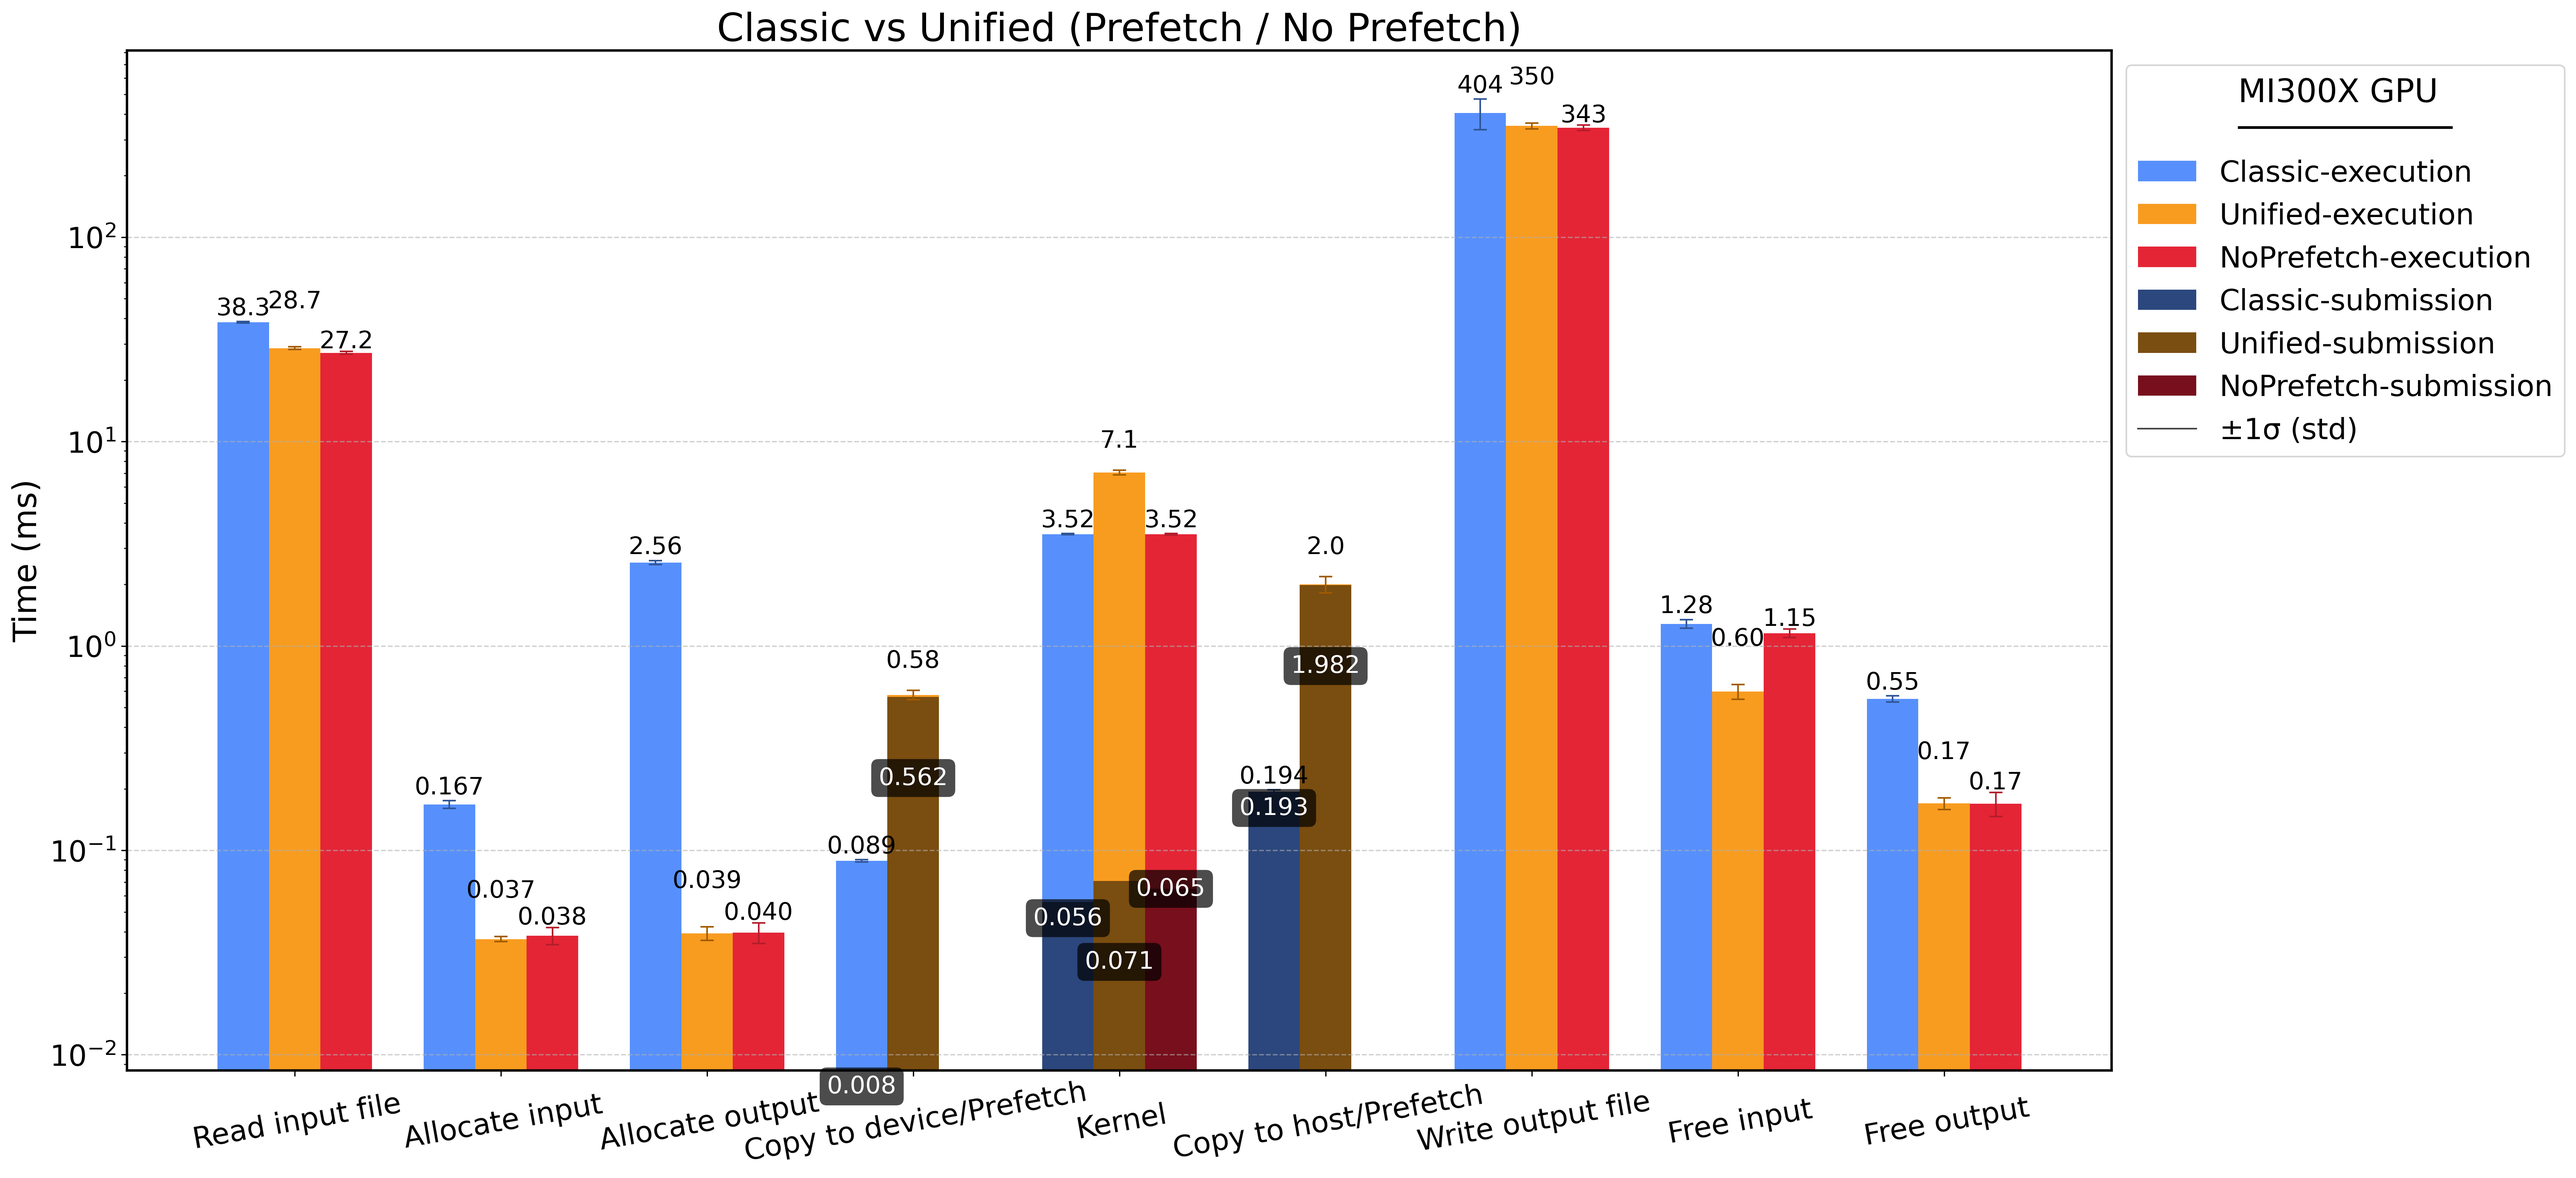
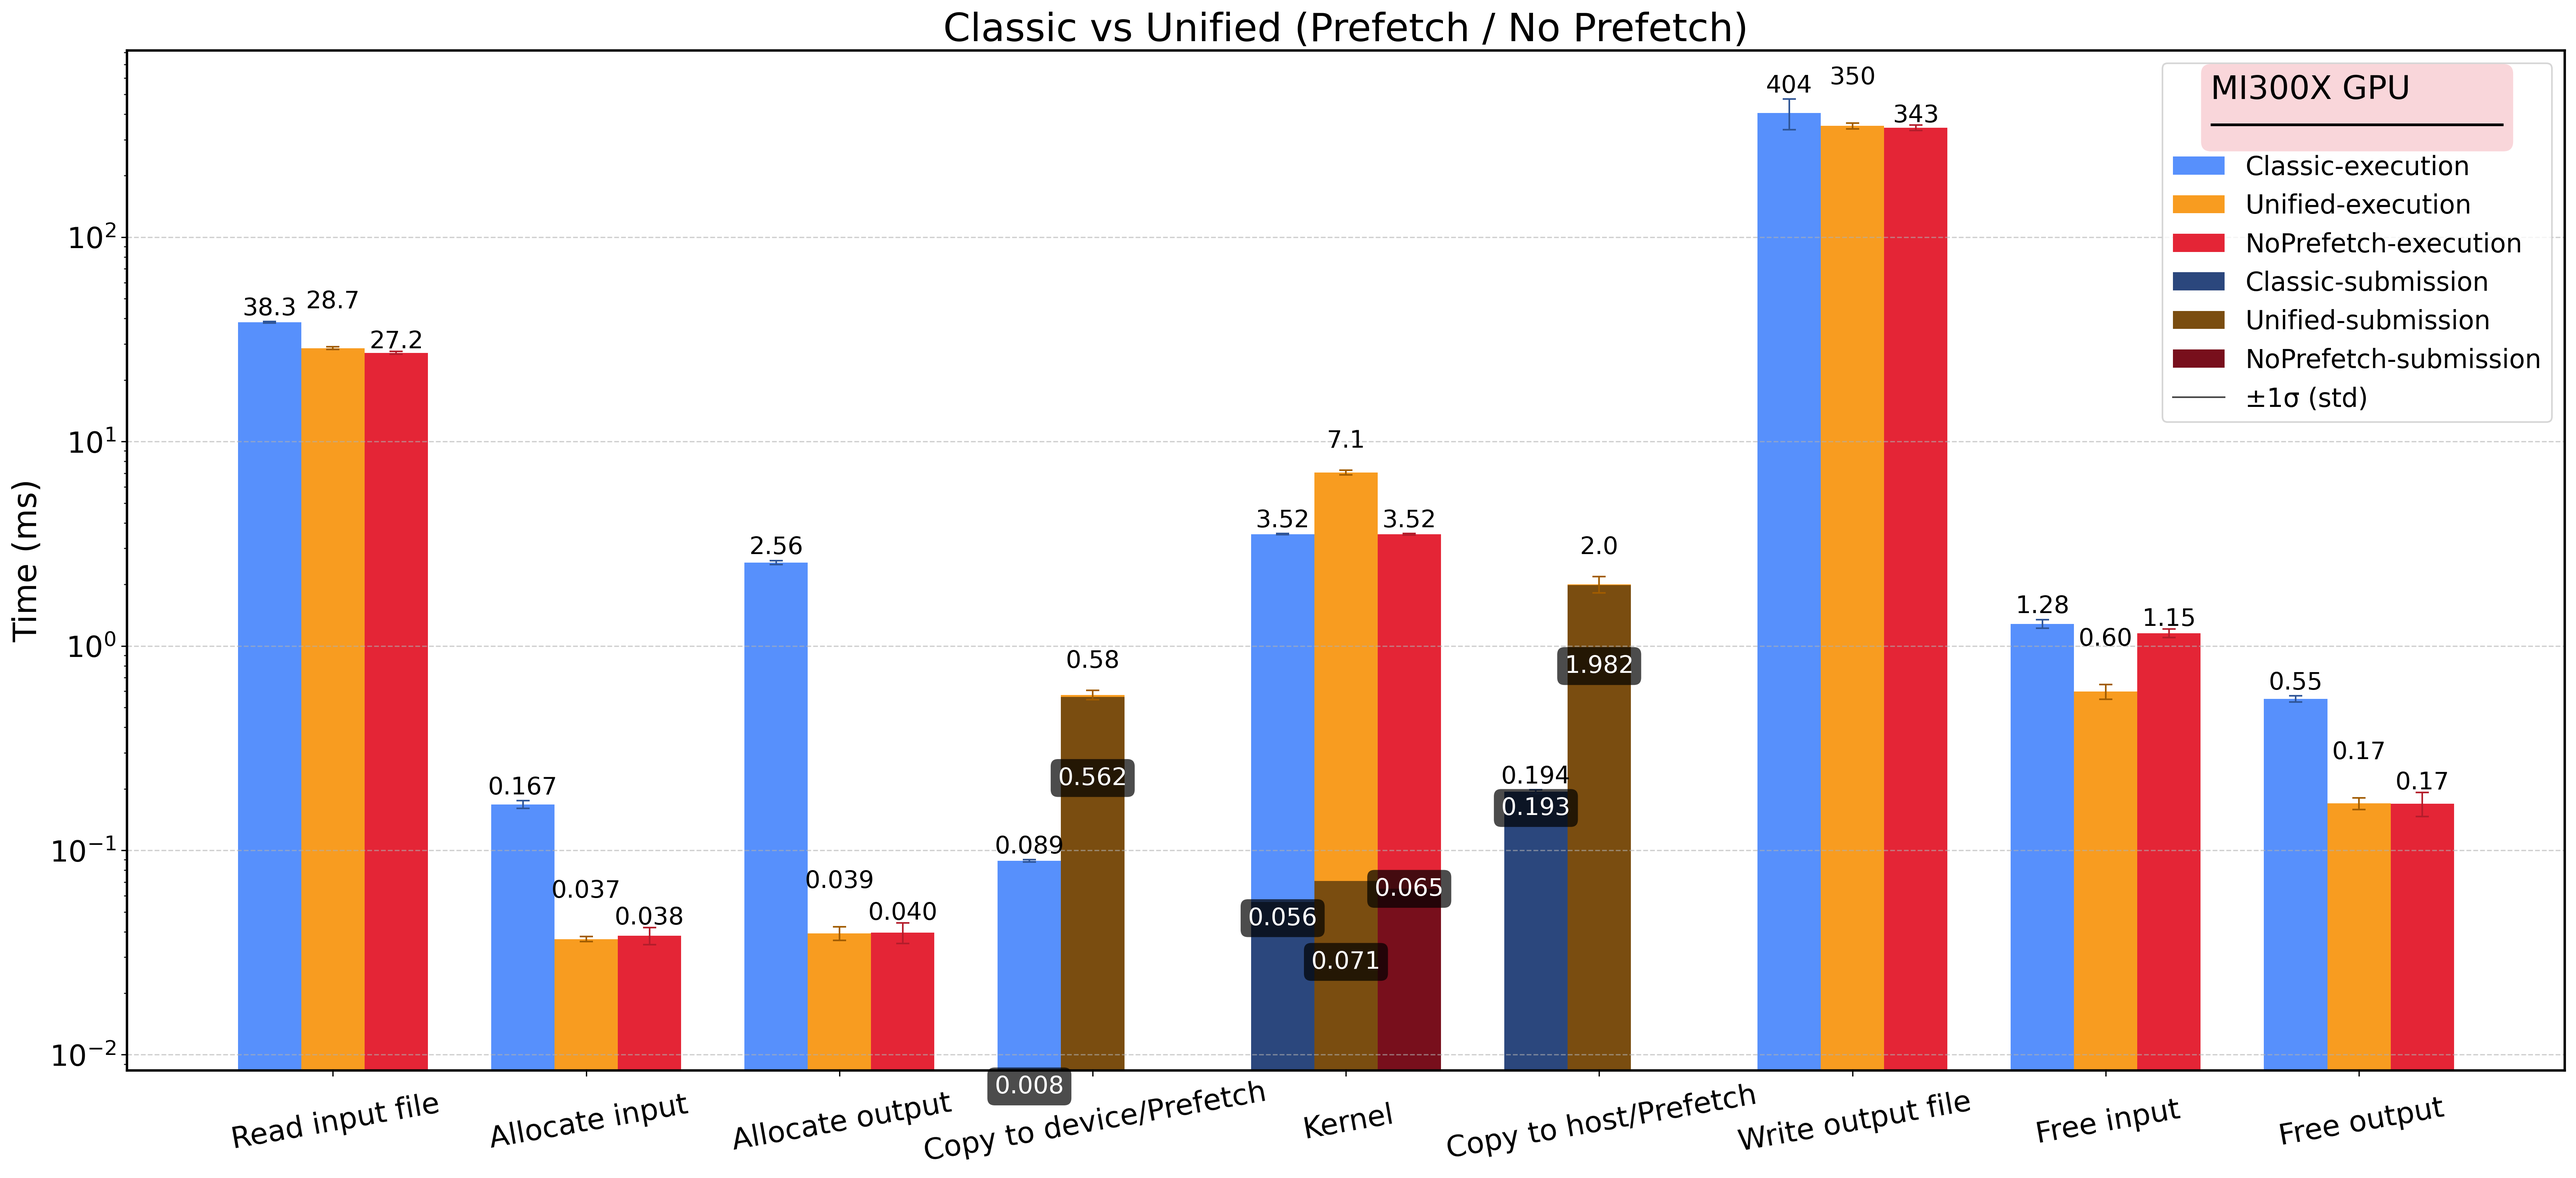
ACAT PLOTS 02/09/2025

diff --git a/Results/compare_timing.py b/Results/compare_timing.py
@@ -148,7 +148,7 @@ plt.rcParams.update({
     "axes.labelsize": 20,          # x and y labels
     "xtick.labelsize": 18,         # tick labels
     "ytick.labelsize": 18,
-    "legend.fontsize": 18,
+    "legend.fontsize": 16,
     "axes.linewidth": 1.5          # thicker border
 })
 
@@ -322,7 +322,7 @@ def draw_plot(ax):
 
             ax.annotate(fmt_mean_with_error(c_val, c_std), (xc, y_at_std_top(c_val, c_std)), xytext=(0, TOP_DY),
                         textcoords="offset points", ha="center", va="bottom", fontsize=FS_TOP)
-            ax.annotate(fmt_mean_with_error(u_val, u_std), (xu, y_at_std_top(u_val, u_std)), xytext=(0, TOP_DY + 20),
+            ax.annotate(fmt_mean_with_error(u_val, u_std), (xu, y_at_std_top(u_val, u_std)), xytext=(0, TOP_DY + 10),
                         textcoords="offset points", ha="center", va="bottom", fontsize=FS_TOP)
             ax.annotate(fmt_mean_with_error(n_val, n_std), (xn, y_at_std_top(n_val, n_std)), xytext=(0, TOP_DY - 2),
                         textcoords="offset points", ha="center", va="bottom", fontsize=FS_TOP)
@@ -360,7 +360,7 @@ def draw_plot(ax):
             ax.annotate(f"{c_sub:.3f}", (xc, c_sub), xytext=(0, -10), textcoords="offset points", ha="center", va="center", fontsize=FS_TOP, color="white", bbox=dict(boxstyle="round,pad=0.3", fc="black", ec="none", alpha=0.7))
             ax.annotate(fmt_mean_with_error(u_exe, u_exe_std), (xu, y_at_std_top(u_exe, u_exe_std)), xytext=(0, TOP_DY + 10),
                         textcoords="offset points", ha="center", va="bottom", fontsize=FS_TOP)
-            ax.annotate(f"{u_sub:.3f}", (xu, u_sub), xytext=(0, -50), textcoords="offset points", ha="center", va="center", fontsize=FS_TOP, color="white", bbox=dict(boxstyle="round,pad=0.3", fc="black", ec="none", alpha=0.7))
+            ax.annotate(f"{u_sub:.3f}", (xu, u_sub), xytext=(0, -30), textcoords="offset points", ha="center", va="center", fontsize=FS_TOP, color="white", bbox=dict(boxstyle="round,pad=0.3", fc="black", ec="none", alpha=0.7))
             ax.annotate(fmt_mean_with_error(n_exe, n_exe_std), (xn, y_at_std_top(n_exe, n_exe_std)), xytext=(0, TOP_DY),
                         textcoords="offset points", ha="center", va="bottom", fontsize=FS_TOP)
             ax.annotate(f"{n_sub:.3f}", (xn, n_sub), xytext=(0, 0), textcoords="offset points", ha="center", va="center", fontsize=FS_TOP, color="white", bbox=dict(boxstyle="round,pad=0.3", fc="black", ec="none", alpha=0.7))
@@ -378,7 +378,12 @@ def draw_plot(ax):
     handles, lbls = ax.get_legend_handles_labels()
     if "±1σ (std)" not in lbls:
         handles.append(err_proxy); lbls.append("±1σ (std)")
-    ax.legend(handles, lbls, loc="upper left", bbox_to_anchor=(1, 1), title=f"{gpu_name} GPU\n───────────", title_fontsize=20)
+    leg = ax.legend(handles, lbls, loc="upper right", title=f"{gpu_name} GPU\n───────────────", title_fontsize=20)
+
+    leg.get_title().set_color("black")
+    leg.get_title().set_bbox(dict(facecolor="#f9d6da",
+                                edgecolor="none",
+                                boxstyle="round,pad=0.3"))
 
 def make_variant(scale="linear", ylim=None, suffix="linear"):
     fig, ax = plt.subplots(figsize=(22, 10), constrained_layout=True)
